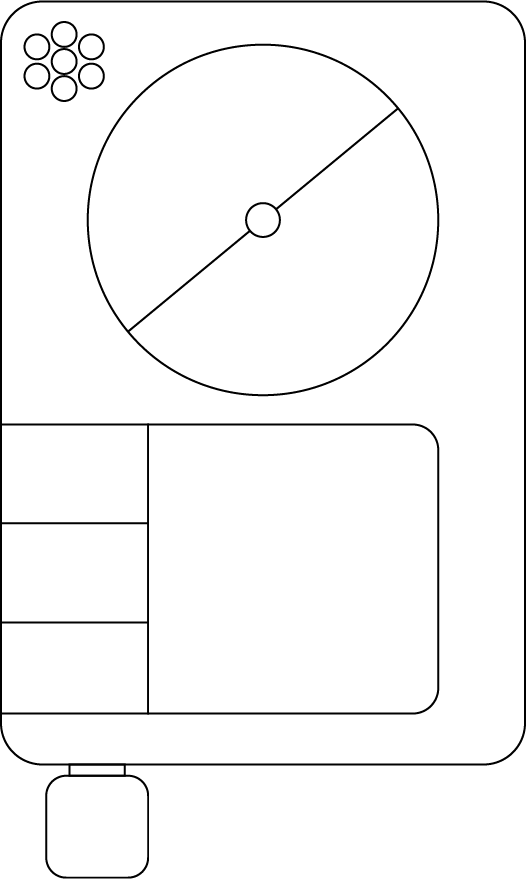
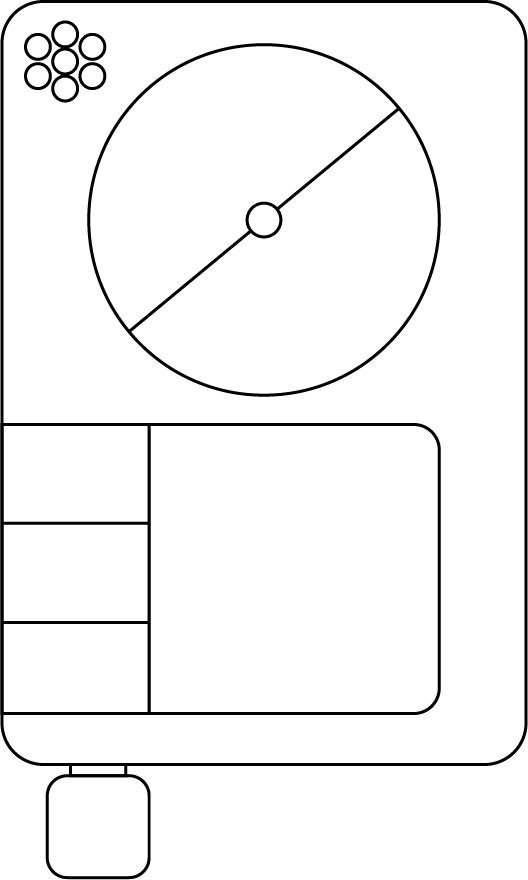
V3

diff --git a/components/Header.tsx b/components/Header.tsx
@@ -8,20 +8,20 @@ export default function Header({ opacity }: { opacity: number }) {
 
   const menuItems = [
     pathname !== "/" ? { name: "Home", href: "/" } : null, // Replace current page with Home
-    pathname !== "/about" ? { name: "About Me", href: "/about" } : null,
+    pathname !== "/about" ? { name: "About", href: "/about" } : null,
     pathname !== "/#projects" ? { name: "Projects", href: "/#projects" } : null,
     pathname !== "/contact" ? { name: "Contact", href: "/contact" } : null,
   ].filter(Boolean) as { name: string; href: string }[]; // Remove null values
 
   return (
     <div
-      className={`fixed bg-background w-full p-2 px-4 flex text-xs md:text-base justify-between items-center font-Poppins uppercase text-foreground duration-500 z-50 ${
+      className={`max-w-screen fixed bg-background w-full p-2 px-4 flex text-sm md:text-base justify-between items-center font-Poppins uppercase text-foreground duration-500 z-50 ${
         opacity === 0 ? "opacity-0 pointer-events-none" : `opacity-${opacity} pointer-events-auto`
       }`}
     >
       {/* Name */}
       <div>
-        <Link className="relative inline-block overflow-hidden group cursor-pointer px-2 tracking-widest" href="/">
+        <Link className="relative inline-block overflow-hidden group cursor-pointer tracking-widest px-2" href="/">
           <p className="relative z-10 top-1 transition-transform duration-600 group-hover:-translate-y-full text-foreground">
             Ibrahim Khan
           </p>
@@ -36,7 +36,7 @@ export default function Header({ opacity }: { opacity: number }) {
       <ul className="flex md:gap-4">
         {menuItems.map((item, index) => (
           <li key={index}>
-            <Link href={item.href} className="relative inline-block overflow-hidden group cursor-pointer px-2 text-center">
+            <Link href={item.href} className="relative inline-block overflow-hidden group cursor-pointer px-2">
               <p className="relative z-10 top-1 transition-transform duration-500 group-hover:-translate-y-full text-foreground">
                 {item.name}
               </p>

diff --git a/components/Card.tsx b/components/Card.tsx
@@ -16,7 +16,7 @@ const Card: React.FC<CardProps> = ({ title, image, href }) => {
 
   return (
     <div 
-      className="relative w-full aspect-square overflow-hidden shadow-lg group cursor-pointer bg-accent"
+      className="relative w-full aspect-square overflow-hidden shadow-lg group cursor-pointer bg-accent duration-300 hover:bg-accent-pop"
       onClick={() => router.push(href)}
       role="button"
       aria-label={`Go to ${title}`}
@@ -32,7 +32,7 @@ const Card: React.FC<CardProps> = ({ title, image, href }) => {
       </div>
       
       {/* Title Overlay */}
-      <div className="absolute bottom-0 w-full bg-black/60 text-white p-4 text-lg font-bold translate-y-full group-hover:translate-y-0 transition-transform duration-300">
+      <div className="absolute bottom-0 w-full bg-background text-accent p-4 text-lg font-bold translate-y-full group-hover:translate-y-0 transition-transform duration-300">
         {title}
       </div>
     </div>

diff --git a/src/app/page.tsx b/src/app/page.tsx
@@ -63,7 +63,7 @@ export default function Home() {
       </section>
 
       {/* Content Sections */}
-      <section id="section-2" className="bg-accent snap-start text-accent-text relative p-6 pt-12 pointer-events-auto">
+      <section id="section-2" className="bg-accent snap-start text-accent-text relative p-6 pt-16 md:pt-12 pointer-events-auto">
       <h1 className="mb-2 mt-2 font-black">SHOWCASE</h1>
         <MasonryGrid images={images} col={4}/>
       </section>

diff --git a/src/app/globals.css b/src/app/globals.css
@@ -29,6 +29,7 @@
   --font-Poppins: Poppins, sans-serif;
   --font-Impact: Impact, sans-serif;
   --color-accent: var(--accent);
+  --color-accent-pop: var(--accent-pop);
   --color-accent-text: var(--accent-text);
   --color-alt-back: var(--alt-back);
   --color-alt-fore: var(--alt-fore);

diff --git a/src/app/layout.tsx b/src/app/layout.tsx
@@ -13,6 +13,9 @@ export default function RootLayout({
 }>) {
   return (
     <html lang="en">
+      <head>
+        <meta name="viewport" content="width=device-width, initial-scale=1.0" />
+      </head>
       <body
         className={`antialiased pointer-events-none`}
       >

diff --git a/src/app/contact/page.tsx b/src/app/contact/page.tsx
@@ -1,0 +1,9 @@
+import Header from "../../../components/Header";
+
+export default function ContactPage(){
+    return (
+        <>
+            <Header opacity={100}/>
+        </>
+    )
+}
